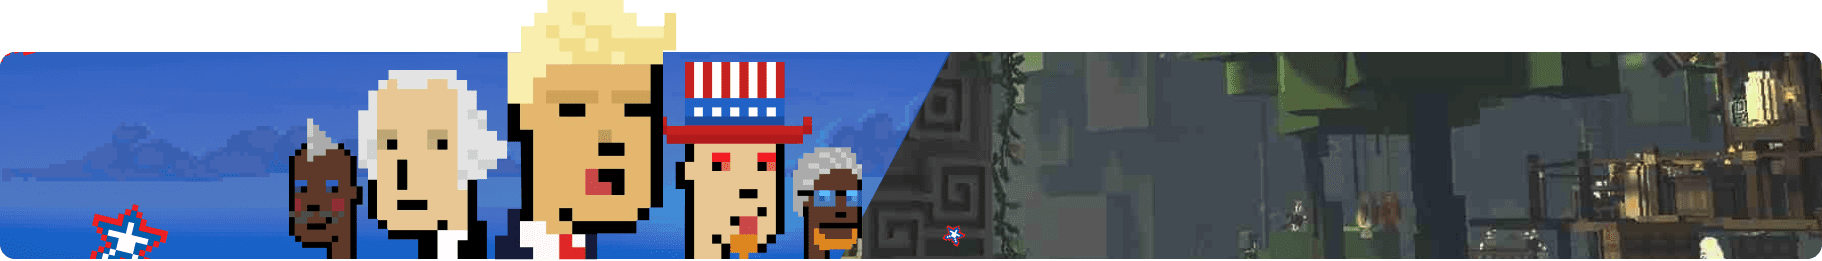
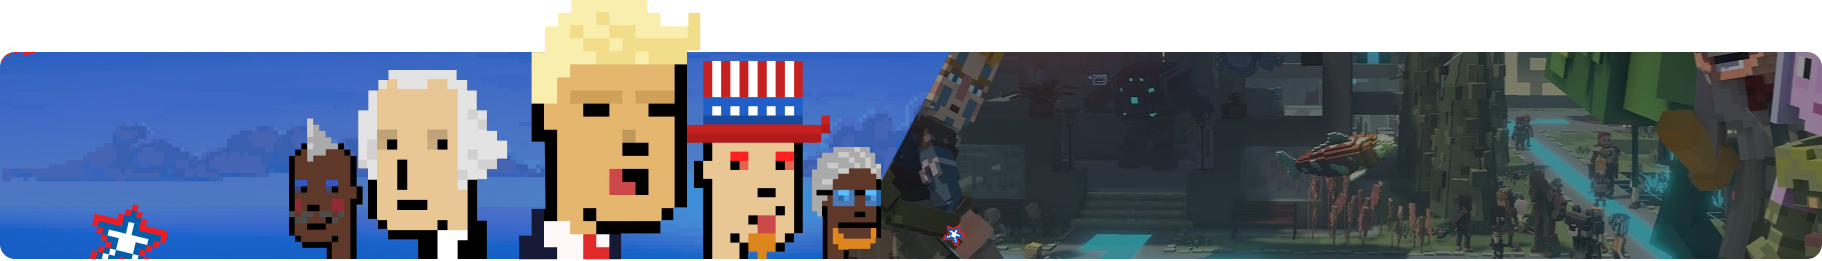
americans

diff --git a/americans/index.html b/americans/index.html
@@ -53,9 +53,9 @@
 						News
 					</a>
 
-					<a href="#" class="header__nav--link go" data-point="faq">
+					<!-- <a href="#" class="header__nav--link go" data-point="faq">
 						FAQ
-					</a>
+					</a> -->
 
 					<a href="#" class="header__nav--link go" data-point="staking">
 						Staking
@@ -88,25 +88,13 @@
 	<section class="main">
 		<div class="container">
 			<div class="main__inner">
-				<h1 class="main__title wow animate__animated animate__fadeIn">
-					<span class="red">The</span> Americans
-				</h1>
-
-				<p class="main__subtitle wow animate__animated animate__fadeIn" data-wow-delay=".1s">
-					The wealthiest group in the world
-				</p>
-
-				<p class="main__text wow animate__animated animate__fadeIn" data-wow-delay=".2s">
-					A collection of 10.000 unique NFTs living on the Ethereum blockchain with 100+ traits. Representing the core and values of the land of opportunity.
-				</p>
-
 				<a href="#" class="main__button--inner wow animate__animated animate__fadeIn" data-wow-delay=".3s">
 					<button class="button token__content--button red">
-						Visit opensea
+						Buy presale
 					</button>
 
 					<span class="soldout">
-						SOLD OUT
+						Soon
 					</span>
 				</a>
 
@@ -117,11 +105,11 @@
 				</div>
 
 				<div class="main__partners2 wow animate__animated animate__fadeIn" data-wow-delay=".5s">
-					<img src="img/partner4.png" alt="partner" class="main__partner">
-					<img src="img/partner5.png" alt="partner" class="main__partner">
+					<img src="img/partners4.png" alt="partner" class="main__partner">
 					<img src="img/partner6.png" alt="partner" class="main__partner">
+					<img src="img/partner5.png" alt="partner" class="main__partner">
 					<img src="img/partner7.png" alt="partner" class="main__partner">
-					<img src="img/partner8.svg" alt="partner" class="main__partner">
+					<img src="img/partners7.svg" alt="partner" class="main__partner">
 				</div>
 			</div>
 		</div>
@@ -1003,7 +991,7 @@
 			<a href="#" class="header__nav--link go" data-point="about">About</a>
 			<a href="#" class="header__nav--link go" data-point="utils">Utilities</a>
 			<a href="#" class="header__nav--link go" data-point="news">News</a>
-			<a href="#" class="header__nav--link go" data-point="faq">FAQ</a>
+			<!-- <a href="#" class="header__nav--link go" data-point="faq">FAQ</a> -->
 			<a href="#" class="header__nav--link go" data-point="staking">Staking</a>
 			<a href="#" class="header__nav--link go" data-point="road">Road map</a>
 		</div>

diff --git a/americans/css/style.css b/americans/css/style.css
@@ -172,8 +172,8 @@ input::-webkit-inner-spin-button{
 
 /* Main */
 .main{
-	padding: 18rem 0 9rem 0;
-	background: url("../img/main-bg.jpg") center no-repeat;
+	padding: 46rem 0 3rem 0;
+	background: url("../img/main-bg.png") center no-repeat;
 	background-size: cover;
 }
 
@@ -631,6 +631,10 @@ input::-webkit-inner-spin-button{
 	position: relative;
 }
 
+.our__item--title--inner{
+	padding-right: 2rem;
+}
+
 .our__item--title--inner, .our__item--point--inner{
 	display: flex;
 	flex-direction: column;
@@ -672,12 +676,9 @@ input::-webkit-inner-spin-button{
 	pointer-events: none;
 }
 
-.our__team--img1{
-	right: 40px;
-}
-
-.our__team--img2{
-	right: 250px;
+.our__team--img1, .our__team--img2{
+	right: 50%;
+	transform: translateX(50%);
 }
 
 /* Afisha */
@@ -1375,7 +1376,7 @@ path, .arrow{
 	}
 
 	.main{
-		padding: 6rem 0;
+		padding: 26rem 0 2rem 0;
 	}
 
 	.main__title{
@@ -1661,13 +1662,25 @@ path, .arrow{
 		justify-content: space-between;
 	}
 
+	.main__partners2{
+		margin-top: 1rem;
+	}
+
 	.our__item{
 		flex-direction: column;
 		align-items: flex-start;
 	}
 
+	.main__partner{
+		margin: 0;
+	}
+
 	.our__item--point--inner, .our__item--title--inner{
 		width: 100%;
+	}
+
+	.our__item--title--inner{
+		padding: 0;
 	}
 
 	.our__item--point--inner{
@@ -1680,6 +1693,11 @@ path, .arrow{
 
 	.our{
 		padding-top: 4rem;
+	}
+
+	.our__team--img1{
+		right: 40px;
+		transform: translateX(0);
 	}
 }
 @media(max-width: 480px){
@@ -1803,7 +1821,7 @@ path, .arrow{
 	}
 
 	.main{
-		padding: 3rem 0;
+		padding: 23rem 0 2rem 0;
 	}
 
 	.join{
@@ -1859,8 +1877,17 @@ path, .arrow{
 	.our__item--title--text{
 		font-size: 2.1rem;
 	}
-	
+
 	.our__team--img1{
 		right: 20px;
+	}
+
+	.token__content--button{
+		font-size: 1.8rem;
+	}
+
+	.soldout{
+		font-size: 1.4rem;
+		width: 50%;
 	}
 }
